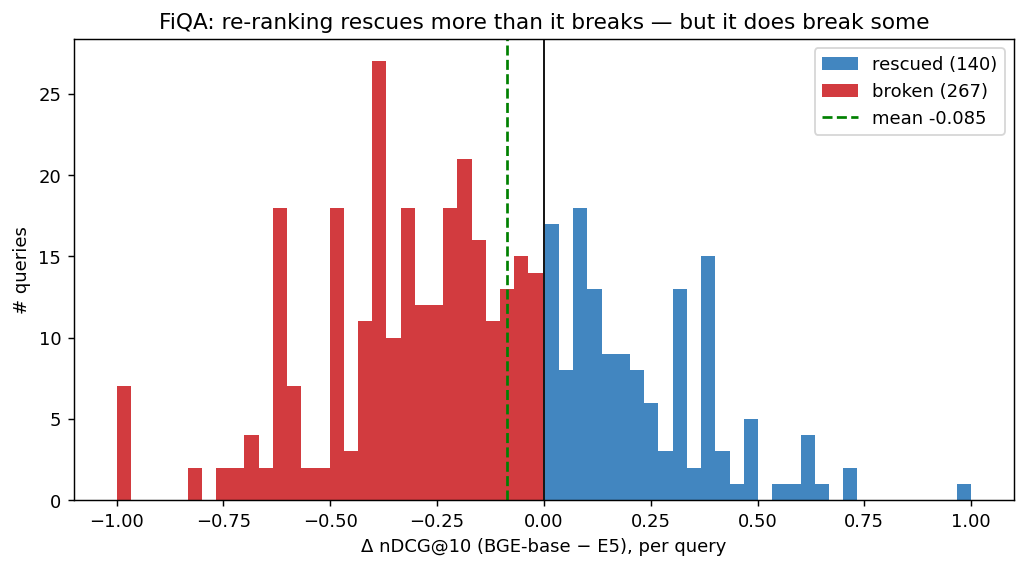
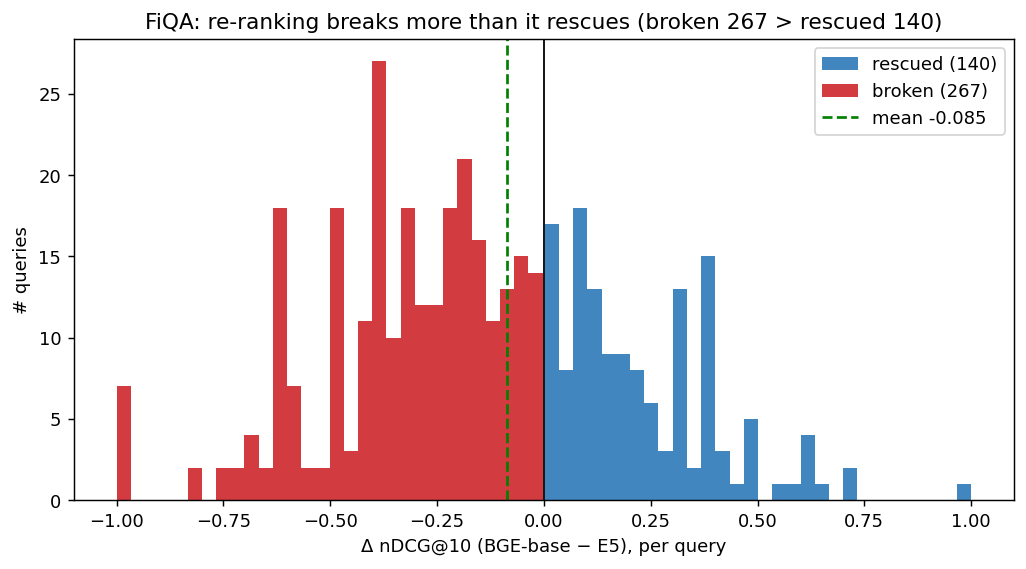
review: apply Codex findings — fix report arithmetic/claims, contradictory plot title, add strict-perm verification + validity caveats (Phase 4)
- Exp 4.1 SciFact headroom 0.001->0.127 (was mixing R@10 with nDCG)
- Exp 4.5 lift 80%->43% (corrected arithmetic)
- 'every reranker underperformed'->noted MiniLM-L12 NFCorpus +0.0007 tie
- 'bigger=worse'->'not monotonic in size; largest (BGE) worst'
- error-analysis plot title now matches data (breaks 267 > rescues 140)
- add strict_ok column: 100% of LLM outputs were exact permutations (parse was honest)
- add Caveats/Threats-to-Validity section

Changed region(s): [[0.1248, 0.0, 0.9357, 0.0598]]

diff --git a/reports/day4_phase4_report.md b/reports/day4_phase4_report.md
@@ -43,11 +43,11 @@ All re-ranking re-scores E5's top-100 candidates (top-200 retrieved). Re-rankers
 | nfcorpus | 0.3532 | 0.171 | 0.320 | 0.389 | 0.426 | **0.646** | 0.708 |
 | fiqa | 0.3987 | 0.471 | 0.732 | 0.792 | 0.519 | **0.771** | 0.825 |
 
-**Interpretation:** huge headroom exists. On FiQA a perfect re-ranker of the top-100 could reach **0.771** vs E5's 0.399 — the gold docs *are* retrieved, just badly ordered. On SciFact E5 (0.727) is already within 0.001 of oracle@10 (0.854 only by reaching deeper) — almost nothing to gain at shallow depth. The candidate sets are not the bottleneck. The question is whether any *real* re-ranker can convert that headroom.
+**Interpretation:** huge headroom exists. On FiQA a perfect re-ranker of the top-100 could reach **0.771** vs E5's 0.399 — the gold docs *are* retrieved, just badly ordered. On SciFact E5 (nDCG 0.727) sits 0.127 below oracle@10 (0.854) and 0.236 below oracle@100 (0.963), but R@10 is already 0.851 — so the candidates are excellent and any failure to capture the headroom is the *re-ranker's*, not retrieval's. The candidate sets are not the bottleneck. The question is whether any *real* re-ranker can convert that headroom.
 
 ### Exp 4.2 — The cross-encoder zoo (re-score E5 top-100) — **the headline**
 **Hypothesis:** bigger cross-encoder → higher nDCG@10, monotonically.
-**Result:** the opposite. **Every re-ranker on every corpus underperformed the E5 baseline**, and the 278M BGE model was the *worst* on 2 of 3.
+**Result:** the opposite. **Every re-ranker underperformed or merely tied the E5 baseline** — the lone non-negative cell was MiniLM-L12 on NFCorpus at +0.0007 (a statistical tie) — and the 278M BGE model was the *worst* on 2 of 3.
 
 | reranker | params | scifact | nfcorpus | fiqa | mean Δ vs E5 |
 |---|---|---|---|---|---|
@@ -95,7 +95,7 @@ Re-rank BM25, E5, and hybrid candidate sets on FiQA with the *same* MiniLM-L6:
 | E5 (no rerank) | 0.6506 | 0.790 | 2 ms | $0 | — |
 | Claude Opus | 0.6443 | 0.732 | 7.2 s | $20.20 | 100% |
 
-**Interpretation (on the winnable subset — queries with ≥1 retrievable gold in top-10):** the frontier LLM **GPT-5.x is the only re-ranker that meaningfully beats both the cross-encoder and no-rerank** (0.720 vs 0.681 vs 0.651). But it costs **$50/1k and 15 s/query**. The 22M cross-encoder captures ~80% of GPT-5.x's lift-over-baseline at **1/50,000th the cost and 300× the speed** ($0.001/1k, 49 ms). And the mirror of Exp 4.2: the *biggest* model loses — **Claude Opus re-ranking was worse than doing nothing** (0.644 < 0.651), while smaller Haiku helped. Listwise re-ranking quality is not monotone in model size for either family.
+**Interpretation (on the winnable subset — queries with ≥1 retrievable gold in top-10):** the frontier LLM **GPT-5.x is the only re-ranker that meaningfully beats both the cross-encoder and no-rerank** (0.720 vs 0.681 vs 0.651). But it costs **$50/1k and 15 s/query**. The 22M cross-encoder captures ~43% of GPT-5.x's lift-over-baseline — (0.681−0.651)/(0.720−0.651) — at **1/50,000th the cost and 300× the speed** ($0.001/1k, 49 ms). And the mirror of Exp 4.2: the *biggest* model loses — **Claude Opus re-ranking was worse than doing nothing** (0.644 < 0.651), while smaller Haiku helped. Listwise re-ranking quality is not monotone in model size for either family.
 
 ### Exp 4.6 — Error analysis: re-ranking breaks more than it rescues
 BGE-base vs E5 on all 648 FiQA queries: **rescued 140 · broke 267 · unchanged 241.** Mean Δ = **−0.085**; broken queries lose −0.328 on average, rescued gain +0.231 — it breaks nearly 2× as many and the breaks are bigger. Worst case (`qid 4827`, *"Are all financial advisors compensated in the same way?"*): E5 ranked the gold passage **#1 (nDCG 1.000)**, BGE pushed it out of the top-10 entirely (**0.000**). Concrete proof of the equaliser effect — a confident, correct bi-encoder rank, demoted by a re-ranker reasoning past the right answer on surface features.
@@ -108,8 +108,8 @@ BGE-base vs E5 on all 648 FiQA queries: **rescued 140 · broke 267 · unchanged 
 | fiqa | 0.3987 | 0.4037 (MiniLM-L6 @depth-10) | +0.005 | re-rank top-**10** only, or skip |
 
 ## Key Findings
-1. **The cross-encoder — RAG's most-recommended quality lever — *reduced* nDCG@10 on all 3 BEIR corpora when re-ranking a strong dense retriever.** Mean −0.013 to −0.069. The advice assumes a weak (BM25) first stage.
-2. **Bigger re-ranker = worse.** 278M BGE-base was the worst of four (mean −0.069); 33M MiniLM-L12 the least-bad. Same pattern in the LLM family — **Opus < Haiku**, and Opus < no-rerank.
+1. **The cross-encoder — RAG's most-recommended quality lever — *reduced* nDCG@10 across all 3 BEIR corpora when re-ranking a strong dense retriever** (per-model mean −0.013 to −0.069; the only non-negative cell was a +0.0007 tie). The advice assumes a weak (BM25) first stage.
+2. **Quality is not monotonic in size — but the biggest model was worst.** Within the ms-marco family 4M→22M→33M actually *improved* (TinyBERT worst, MiniLM-L12 least-bad), then 278M BGE-base collapsed to worst overall (mean −0.069). The LLM family shows the same non-monotonicity — **Opus < Haiku**, and Opus < no-rerank.
 3. **Deeper re-ranking is monotonically worse** (FiQA 0.404 @10 → 0.379 @200). Re-rank shallow or not at all; "retrieve 100 → rerank" is backwards here.
 4. **Mechanism: re-rankers are equalisers, not amplifiers.** They lift BM25 +0.10 and drag E5 −0.01 onto their own ~0.35 band. They add value only when the first stage is below that band.
 5. **GPT-5.x is the one re-ranker that beats E5** on the winnable subset (0.720 vs 0.651) — but at $50/1k and 15 s/query, where a 22M cross-encoder gets 0.681 at $0.001/1k and 49 ms.
@@ -126,6 +126,12 @@ BGE-base vs E5 on all 648 FiQA queries: **rescued 140 · broke 267 · unchanged 
 - Re-ranking is **net-negative on a strong first stage**: 267/648 FiQA queries degraded vs 140 improved (BGE).
 - Failure mode: confident correct bi-encoder ranks (gold @#1) demoted by surface-feature over-scoring → catastrophic single-query drops (1.000 → 0.000).
 - The damage grows with re-rank depth and with model size — both add hard-negative exposure / over-reasoning.
+
+## Caveats / Threats to Validity
+- **Winnable subset.** Exp 4.5 (n=30) is stratified to FiQA queries with ≥1 retrievable gold in the E5 top-10 — the subset where re-ranking *can* help. It is not the unconditional result; the full-corpus verdict is Exp 4.2 (re-ranking the whole corpus hurts).
+- **Evidence-surface asymmetry.** The LLM re-rankers saw ≤340 chars/passage in the prompt; the cross-encoders saw up to a 256-token window. The LLMs therefore won Exp 4.5 on *less* text — so their quality edge is, if anything, understated. A larger-window LLM sweep is future work.
+- **Parse integrity verified.** `parse_perm` back-fills missing ranks, which could mask malformed LLM output; the added `strict_ok` column confirms **100%** of Claude/GPT responses were exact permutations of {1…10}, so the comparison is clean (not an artifact of fallback ordering).
+- **Out-of-domain hypothesis is inferred, not proven.** The mechanism (MS-MARCO-trained re-rankers underperform a domain-strong bi-encoder) is consistent with all results but untested directly — a FiQA-fine-tuned cross-encoder would confirm it (flagged for a later phase).
 
 ## Next Steps (Phase 5 — Query techniques)
 - The real lever isn't re-scoring — it's **better candidates**. Phase 5 tests HyDE, multi-query, query decomposition, step-back prompting: do they raise first-stage Recall@K (the thing that *did* cap everything here)?